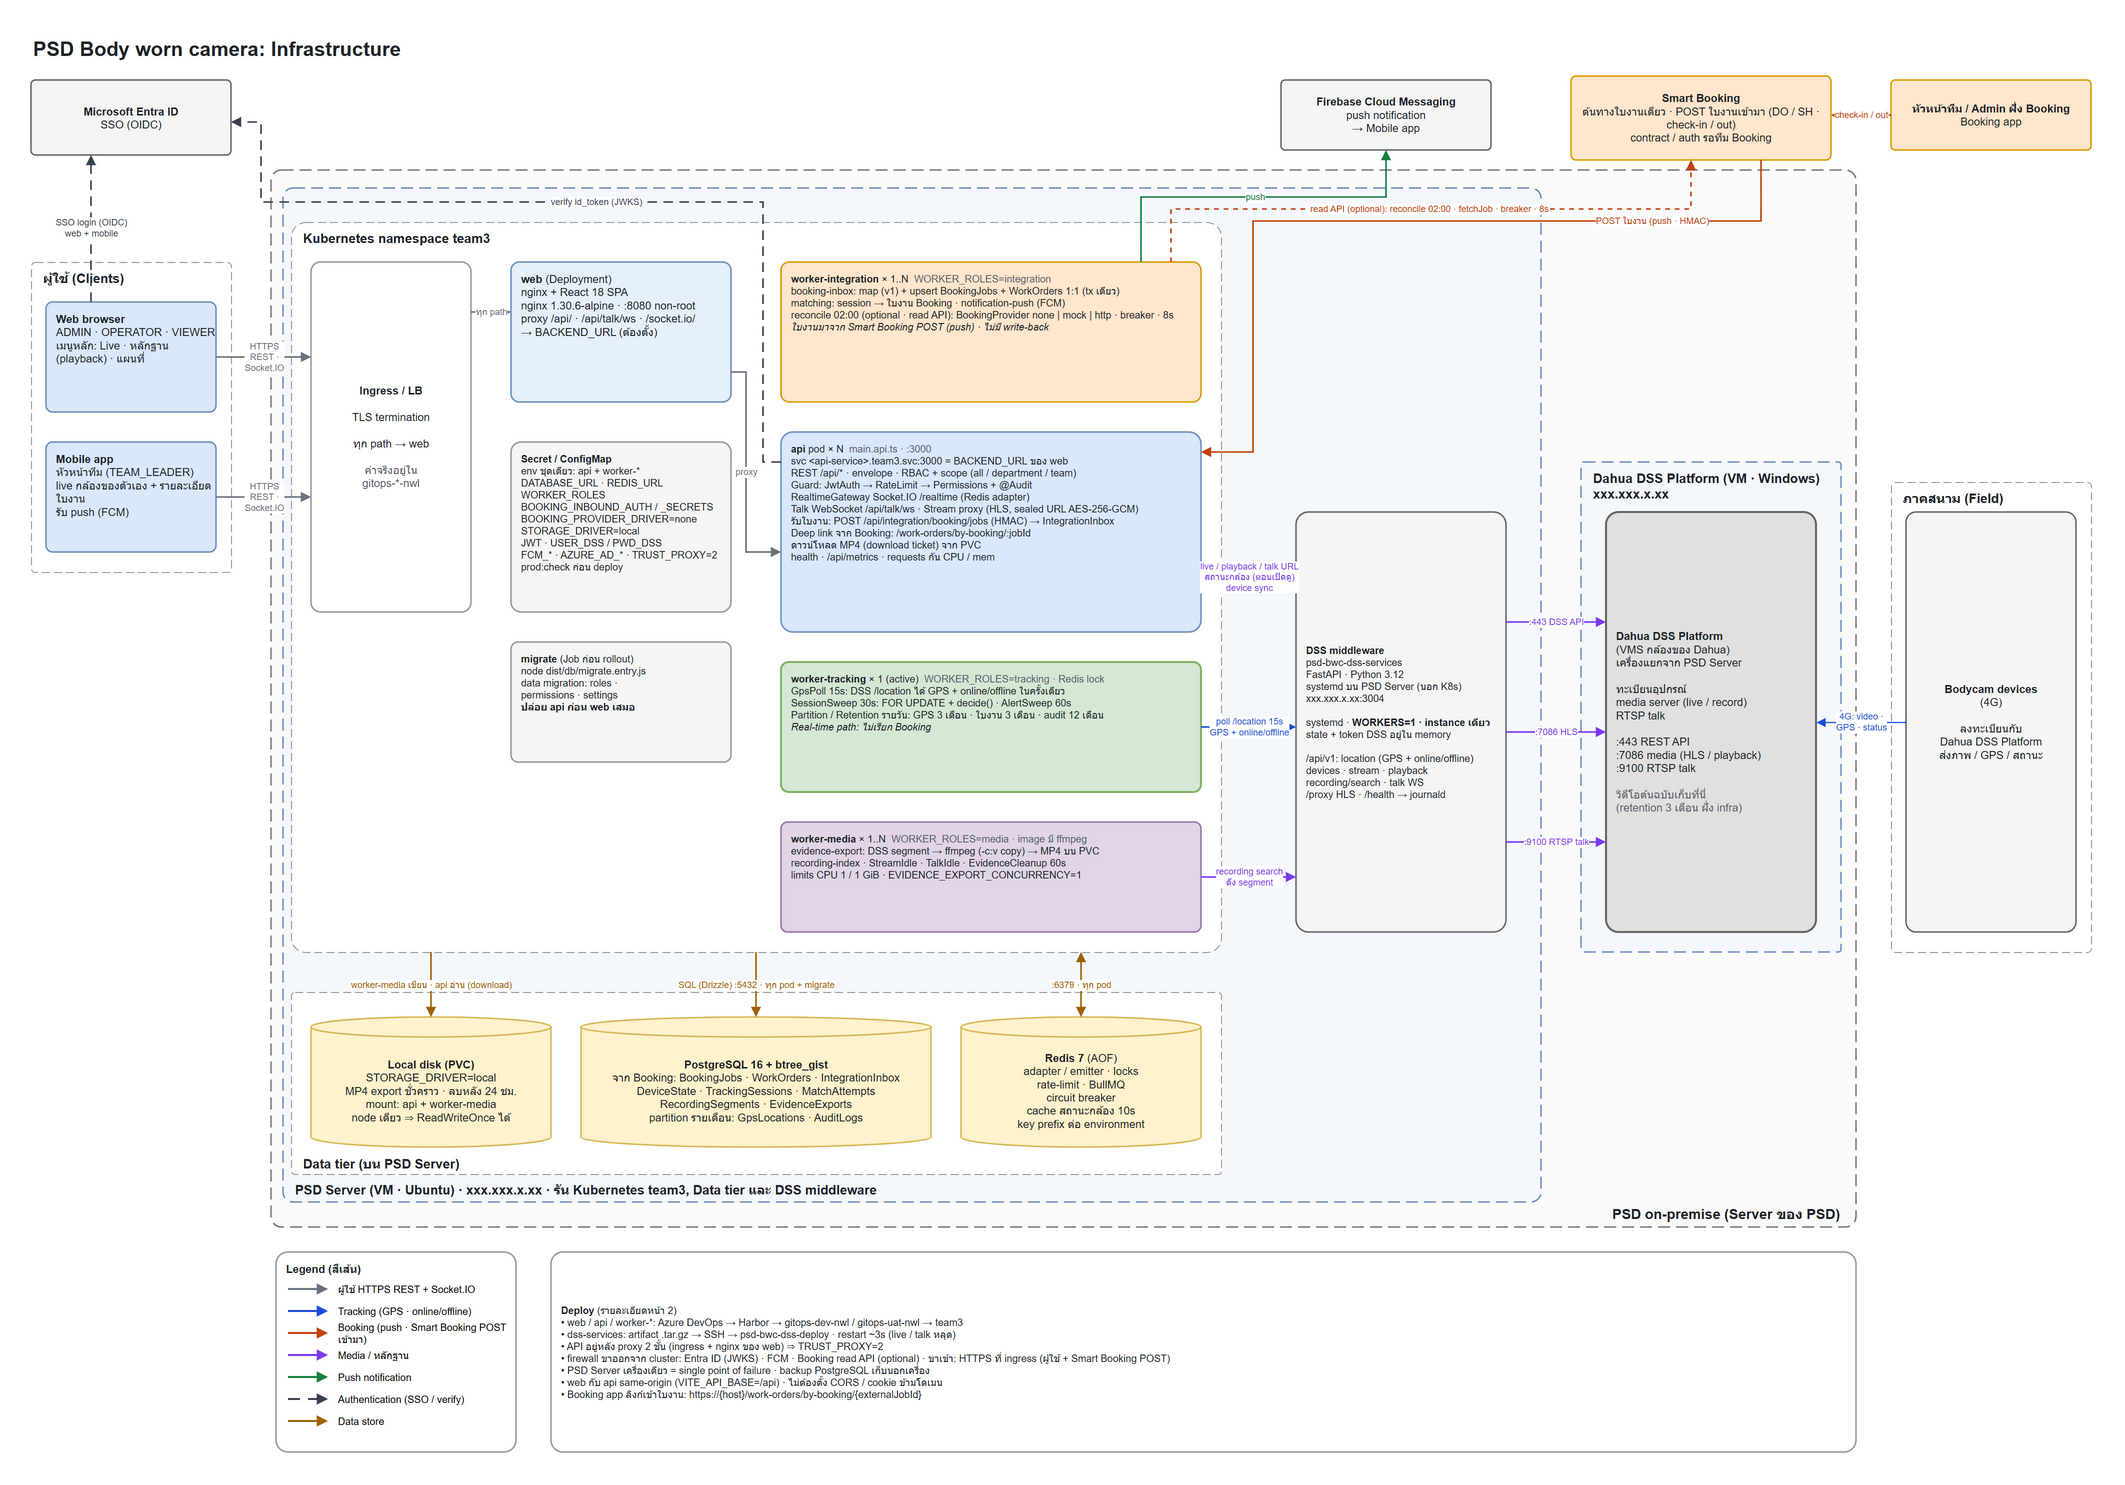
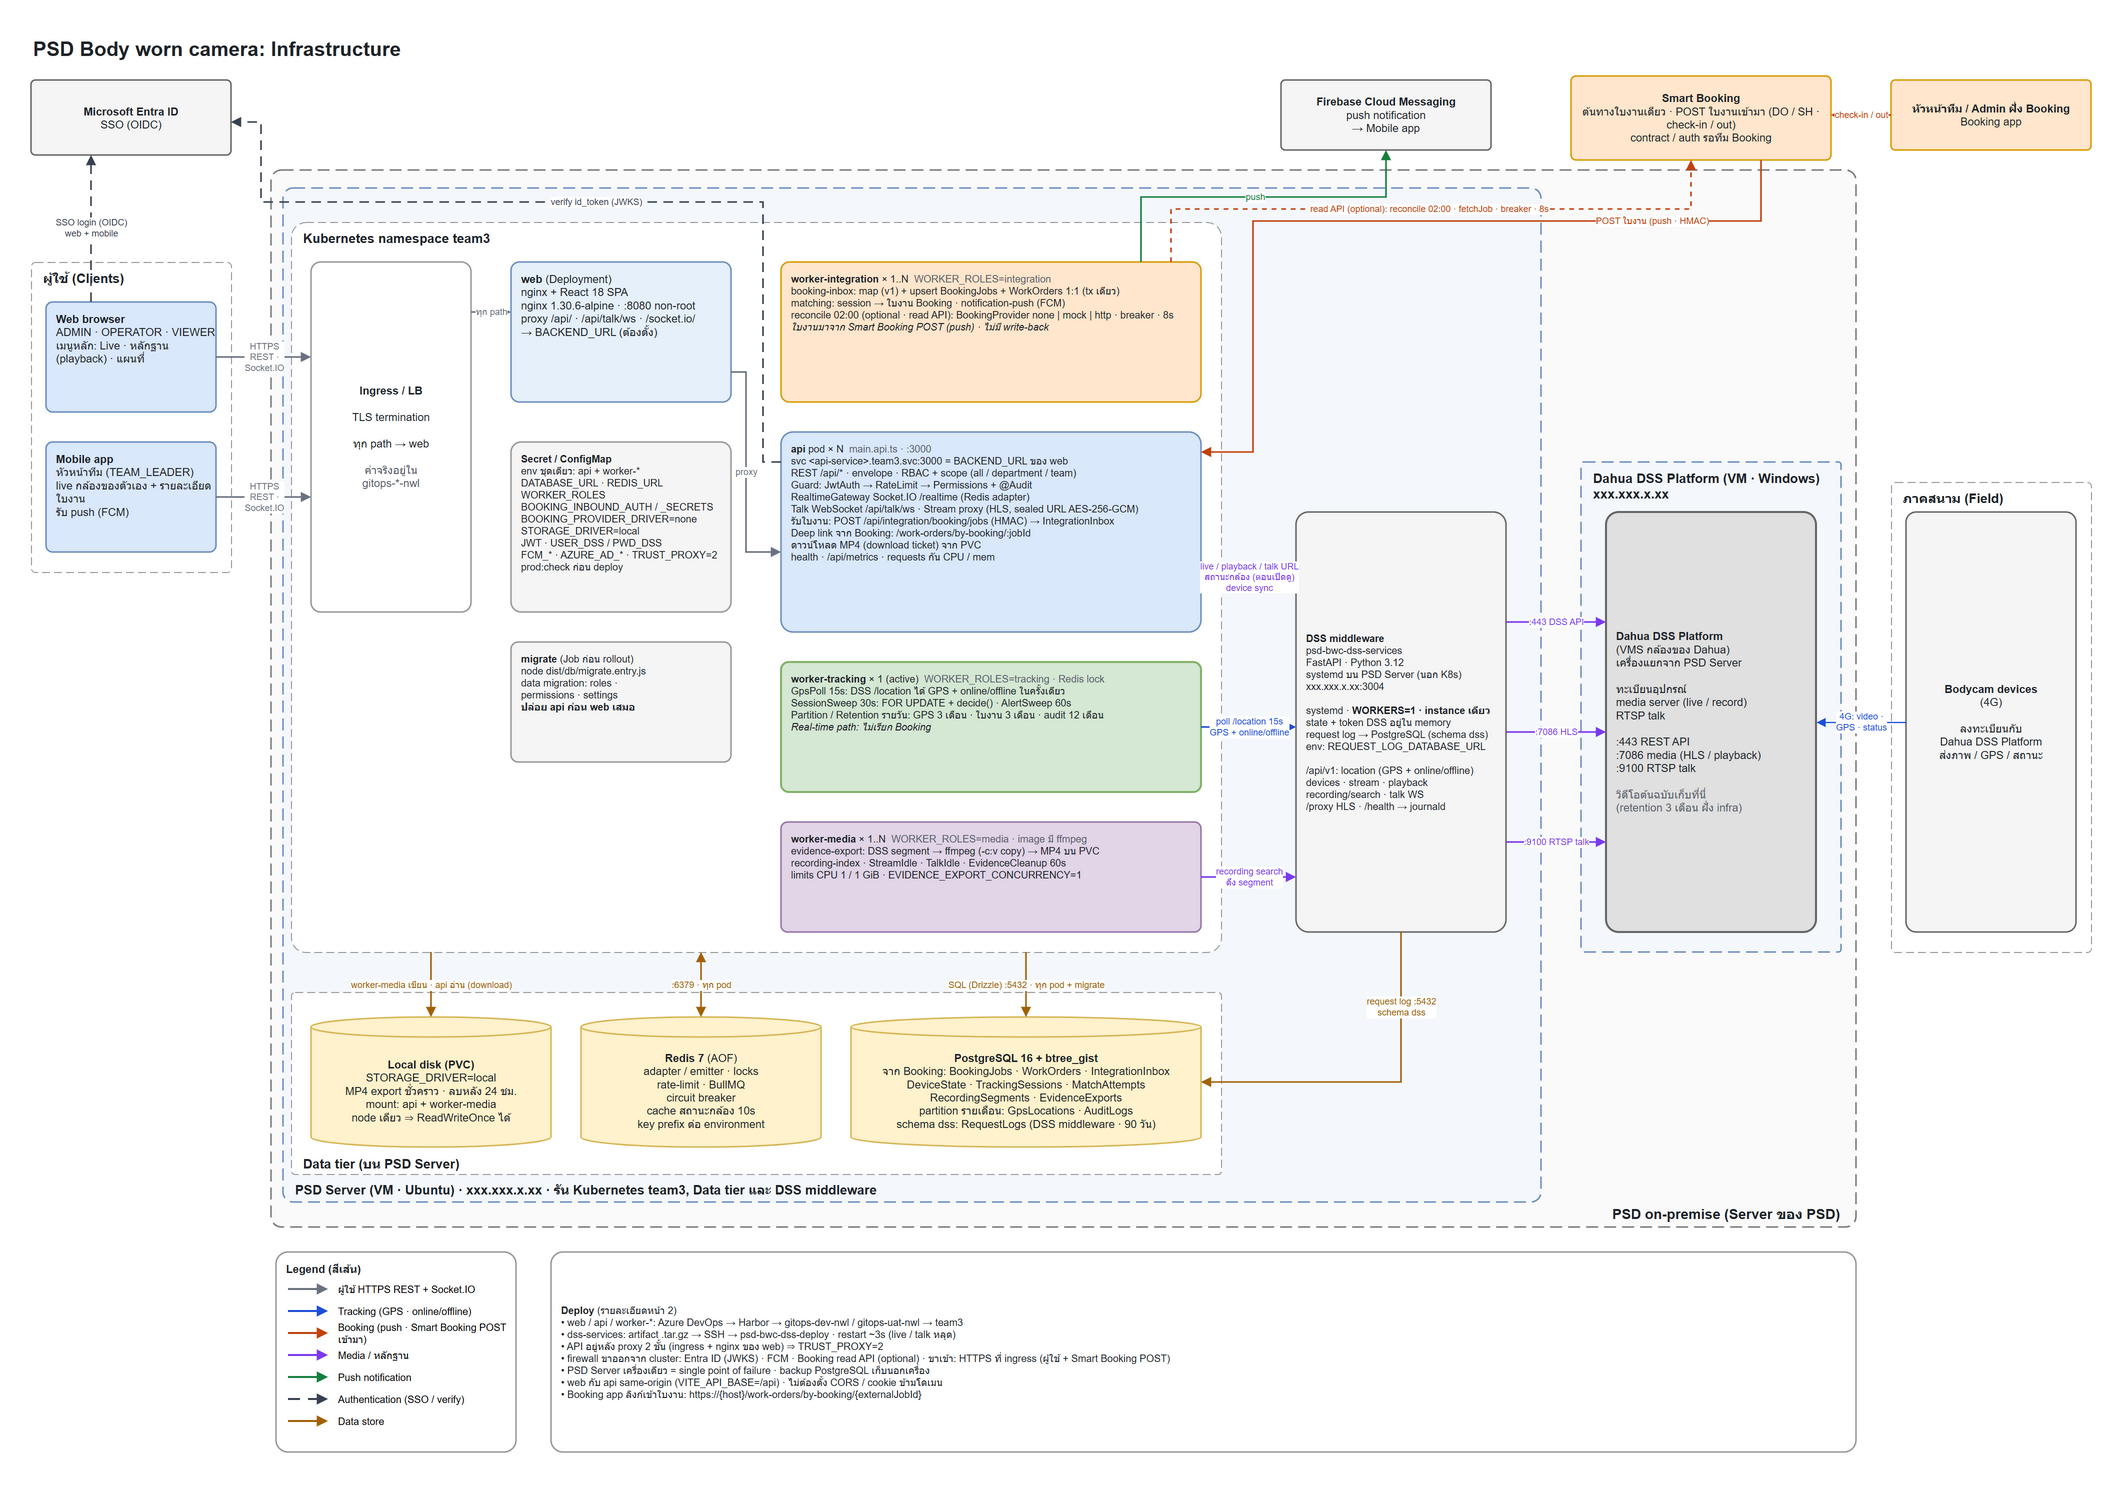
no message

Changed region(s): [[0.2795, 0.6505, 0.5591, 0.7744], [0.5901, 0.4027, 0.7144, 0.5576], [0.6522, 0.6505, 0.6833, 0.6815]]

diff --git a/docs/blueprint/README.md b/docs/blueprint/README.md
@@ -162,6 +162,8 @@ flowchart LR
 | Media | `StreamingSessions`, `TalkSessions`, `EvidenceExports` |
 | System | `Alerts`, `Notifications`, `AuditLogs` (partitioned), `Settings` |
 
+นอกจาก 34 ตารางนี้ DB เดียวกันมี `dss."RequestLogs"` (schema `dss`) ที่ DSS middleware สร้างและเขียนเองสำหรับเก็บประวัติ request — NestJS / drizzle ไม่ได้จัดการ (ดู Part 4 §4.4 I และ §4.7 ข้อ 8)
+
 Role `TEAM_LEADER` และ scope `team` เพิ่มผ่าน data migration (`Roles` / `RolePermissions`) ไม่มีตารางใหม่ · หัวหน้าทีมต้องผูก `Employees.UserId` (บังคับใน service — DL47)
 
 Invariant สำคัญที่ DB บังคับ:
